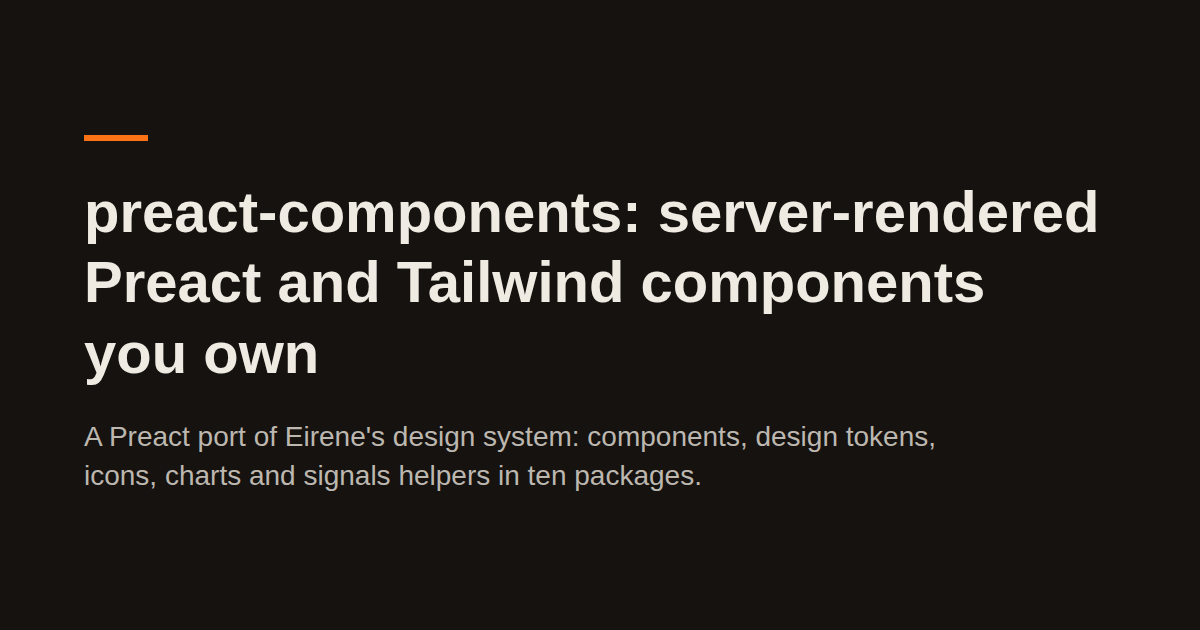
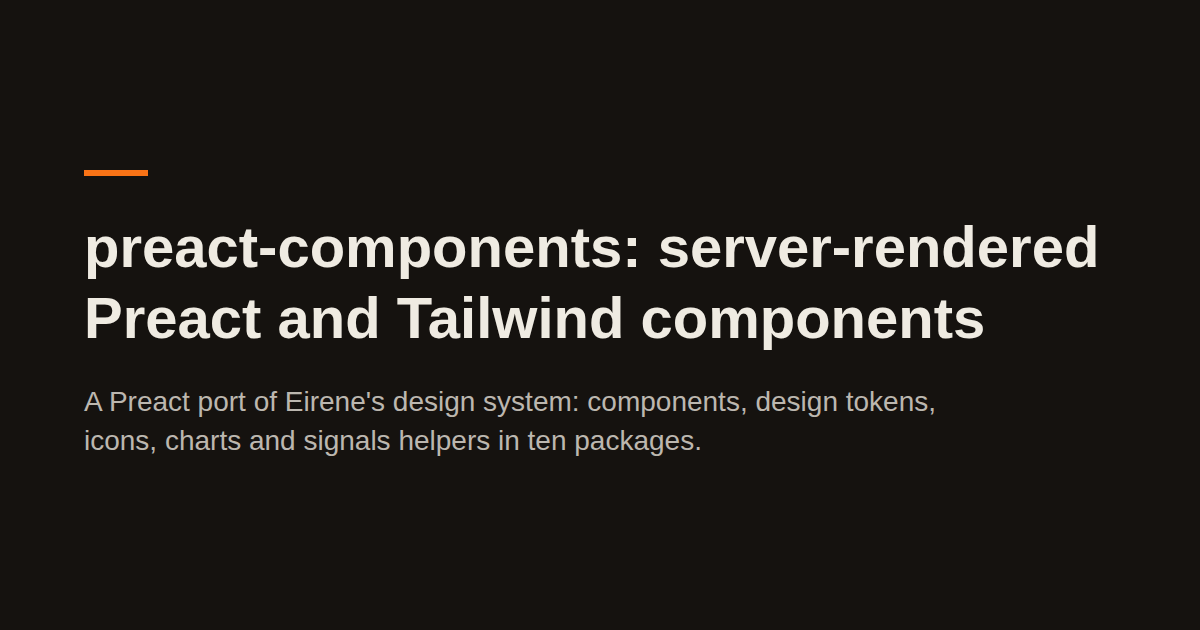
fix(tools): state only sourced facts and credit Eirene on the hub
The shared @spy4x scope is planned until preact-components is on JSR; the template already imports ts-libs, so that link is today. Unsourced wording is replaced by what the READMEs say, and Eirene's credit shows on the /tools row and in the llms files.

Changed region(s): [[0.0617, 0.2714, 0.925, 0.7841], [0.0617, 0.2111, 0.1233, 0.2413]]

diff --git a/lib/tools.ts b/lib/tools.ts
@@ -77,7 +77,7 @@ export const toolGroups: ToolGroup[] = [
 
 /** What each status word means, for the status key on `/tools`. */
 export const statusMeanings: Record<ToolStatus, string> = {
-  ready: "Published and used in production. Safe to depend on.",
+  ready: "Published on its registry and used in my own projects.",
   beta: "Works and is in use, but the API may still change before 1.0.",
   wip: "Being built. Not ready for someone else to depend on.",
   paused: "Works as it is, but I am not working on it right now.",
@@ -191,10 +191,14 @@ export const tools: Tool[] = [
     },
     licence: "MIT",
     runtime:
-      "Deno on the server; @spy4x/time and @spy4x/validation also run in a browser, untested there",
+      "Deno on the server; @spy4x/time, @spy4x/validation, @spy4x/platform's browser entry points and @spy4x/realtime's client run in a browser",
     usedFor:
-      "This site encrypts its environment files with @spy4x/server's age64 module, and more of the site is moving over to these packages now.",
+      "My SaaS template imports @spy4x/validation, @spy4x/platform and @spy4x/server, and this site encrypts its environment files with @spy4x/server's age64 module. More of the site is moving over to these packages now.",
     proofLinks: [
+      {
+        label: "The template's imports in deno.jsonc",
+        href: "https://github.com/spy4x/template/blob/master/deno.jsonc",
+      },
       {
         label: "This site's env tasks in deno.json",
         href: "https://github.com/spy4x/antonshubin.com/blob/main/deno.json",
@@ -224,9 +228,15 @@ export const tools: Tool[] = [
     fits: [
       {
         text:
-          "preact-components shares the @spy4x scope on JSR and imports @spy4x/platform, @spy4x/time and @spy4x/validation.",
+          "preact-components imports @spy4x/platform, @spy4x/time and @spy4x/validation.",
         href: "/tools/preact-components",
         planned: false,
+      },
+      {
+        text:
+          "preact-components will publish under the same @spy4x scope on JSR, as @spy4x/preact-*.",
+        href: "/tools/preact-components",
+        planned: true,
       },
       {
         text: "This site runs its env-file encryption on @spy4x/server.",
@@ -234,16 +244,17 @@ export const tools: Tool[] = [
         planned: false,
       },
       {
-        text: "My SaaS template will import it.",
-        href: "https://github.com/spy4x/template",
-        planned: true,
+        text:
+          "My SaaS template imports @spy4x/validation, @spy4x/platform and @spy4x/server.",
+        href: "https://github.com/spy4x/template/blob/master/deno.jsonc",
+        planned: false,
       },
     ],
   },
   {
     slug: "preact-components",
     name: "preact-components",
-    job: "server-rendered Preact and Tailwind components you own",
+    job: "server-rendered Preact and Tailwind components",
     summary:
       "A Preact port of Eirene's design system: components, design tokens, icons, charts and signals helpers in ten packages. Every module is a standard ES module that renders to HTML on the server and hydrates in the browser, with keyboard handling and focus written by hand. The tests and the build run on Deno.",
     kind: "component-library",
@@ -288,7 +299,7 @@ export const tools: Tool[] = [
     useIf: [
       "You build a Preact app with Tailwind and want components that render on the server and hydrate in the browser.",
       "You want charts rendered as SVG on the server.",
-      "You want to own your components' keyboard handling and focus instead of wrapping a third-party kit.",
+      "You want to see every component running, with its code, in a live guide before you pick it.",
     ],
     dontUseIf: [
       "Your app is React: these are Preact components.",
@@ -298,9 +309,15 @@ export const tools: Tool[] = [
     fits: [
       {
         text:
-          "Shares the @spy4x scope on JSR with ts-libs, and imports @spy4x/platform, @spy4x/time and @spy4x/validation from it.",
+          "Imports @spy4x/platform, @spy4x/time and @spy4x/validation from ts-libs.",
         href: "/tools/ts-libs",
         planned: false,
+      },
+      {
+        text:
+          "Will publish under the same @spy4x scope on JSR as ts-libs, as @spy4x/preact-*.",
+        href: "/tools/ts-libs",
+        planned: true,
       },
       {
         text: "My SaaS template will import it once it is published.",

diff --git a/routes/tools/index.tsx b/routes/tools/index.tsx
@@ -35,6 +35,19 @@ function ToolRow({ tool }: { tool: Tool }) {
         </a>
       </h3>
       <p class="mt-1 text-graphite">{tool.job}.</p>
+      {tool.credit && (
+        <p data-credit class="mt-1 text-sm text-parchment">
+          {tool.credit.text}{" "}
+          {tool.credit.links.map((l, i) => (
+            <span key={l.href}>
+              {i > 0 && " · "}
+              <a href={l.href} class="text-accent underline underline-offset-4">
+                {l.label}
+              </a>
+            </span>
+          ))}
+        </p>
+      )}
       {tool.live && (
         <p class="mt-1">
           <a
@@ -47,7 +60,7 @@ function ToolRow({ tool }: { tool: Tool }) {
       )}
       <div class="mt-3 flex flex-wrap items-center gap-x-4 gap-y-2 text-sm text-graphite">
         <StatusMark status={tool.status} />
-        <span>
+        <span data-version>
           {tool.registry.published
             ? `${tool.registry.version} on ${tool.registry.name}`
             : `Publishing ${tool.registry.version} to ${tool.registry.name}`}

diff --git a/routes/tools/[slug].tsx b/routes/tools/[slug].tsx
@@ -150,9 +150,11 @@ export default define.page(function ToolPage(ctx) {
                 <StatusMark status={tool.status} />
               </Fact>
               <Fact label="Version">
-                {tool.registry.published
-                  ? tool.registry.version
-                  : `${tool.registry.version}, publishing to ${tool.registry.name}`}
+                <span data-version>
+                  {tool.registry.published
+                    ? tool.registry.version
+                    : `${tool.registry.version}, publishing to ${tool.registry.name}`}
+                </span>
               </Fact>
               <Fact label="Licence">{tool.licence}</Fact>
               <Fact label="Runs on">{tool.runtime}</Fact>

diff --git a/lib/llms.ts b/lib/llms.ts
@@ -74,7 +74,9 @@ export function toolSummary(t: Tool): string {
   const install = t.registry.published
     ? `Install: \`${t.registry.install}\` (${t.registry.name}).`
     : `Not yet on ${t.registry.name}: ${t.registry.version} is being published now.`;
-  return `${t.name}: ${t.job}. Status: ${
+  const job = `${t.job.charAt(0).toUpperCase()}${t.job.slice(1)}.`;
+  const credit = t.credit ? ` ${t.credit.text}` : "";
+  return `${job}${credit} Status: ${
     STATUS_WORDS[t.status]
   }. ${t.licence}. ${install}`;
 }
